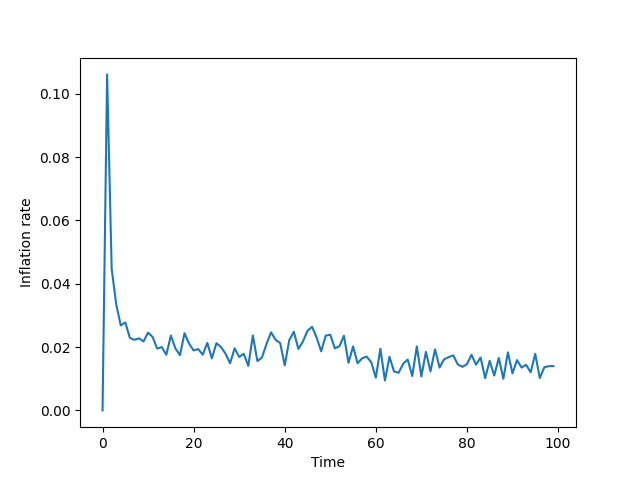
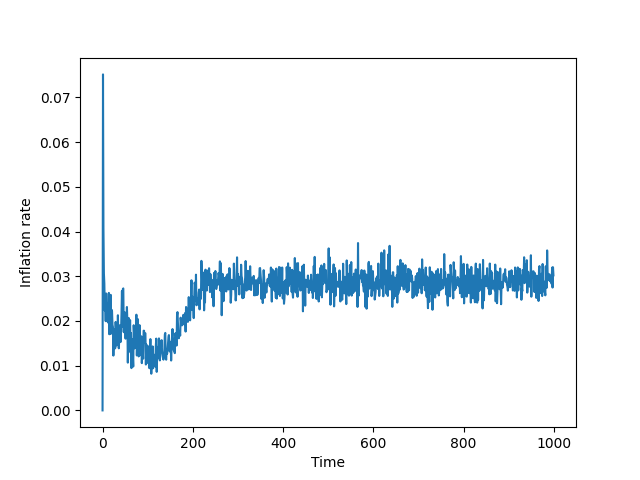
nice cycles, but u still too large

diff --git a/models/BAM_08.02.23.py b/models/BAM_08.02.23.py
@@ -39,7 +39,7 @@ class BAM_base:
         self.theta = 8 # Duration of individual contract
         self.r_bar = 0.01 # Base interest rate set by central bank (exogenous in this model)
         self.capital_requirement_coef = 0.11 # capital requirement coefficients uniform across banks 
-        self.delta = 0.05 # Dividend payments parameter (fraction of net profits firm have to pay to the shareholders)
+        self.delta = 0.35 # Dividend payments parameter (fraction of net profits firm have to pay to the shareholders)
 
         #################################################################################################
         # AGGREGATE REPORT VARIABLES
@@ -200,19 +200,19 @@ class BAM_base:
             NWa = np.mean(Y0) * 10 # initial net worth of the firms is the mean of initial HH's income times two
             NW = np.ones(self.Nf) * (NWa)  # initial net worth of each firm (all firms start with the same net worth)
             # initial_Ld = self.Nh // self.Nf # initial labour demand Ld in t = 0: ratio of HH and firms (household by firm)
-            initial_Ld = 7  
+            initial_Ld = 7
             aa = (np.mean(Y0) * 0.6) # initial minimum (required) wage is 60% of initial mean income of the HH's 
             alpha = np.random.uniform(low=0.5, high=0.5, size = self.Nf) # Productivity alpha stays constant here, since no R&D in this version
             # Delli Gatti & Grazzini 2020 set alpha to 0.5 in their model (constant)
             # alpha = 0.5
             # Sample random numbers, depending on parameter values:
-            #eta = np.random.uniform(low=0,high=self.H_eta, size = self.Nf) # sample value for the (possible) price update (growth rate) for the current firm 
-            #rho = np.random.uniform(low=0,high=self.H_rho, size = self.Nf) # sample growth rate of quantity of firm i
+            eta = np.random.uniform(low=0,high=self.H_eta, size = self.Nf) # sample value for the (possible) price update (growth rate) for the current firm 
+            rho = np.random.uniform(low=0,high=self.H_rho, size = self.Nf) # sample growth rate of quantity of firm i
             for f in range(self.Nf):
                 id_F[f] = f + 1 # set id 
                 f_data[:,f,0] = f+1 # start with 1 for id
                 Wp[f] = np.random.uniform(low = (aa), high = (aa+1)) # initial wage is random number around initial minimum required wage
-                p[f] = np.round(np.random.uniform(low = 2, high = 4), decimals=2)
+                p[f] = np.round(np.random.uniform(low = 2, high = 5), decimals=2)
 
 
             # BANKS
@@ -285,15 +285,12 @@ class BAM_base:
                 average price of last round determines how quantity or prices are adjusted in this round.
                 There is no storage or inventory, s.t. in case quantity remaining from last round (Qr > 0), it is not carried over."""
 
-                # Sample random quantity and price shocks for each firm, upper bound depending on respective parameter values (shocks change each period)
-                eta = np.random.uniform(low=0,high=self.H_eta, size = self.Nf) # sample value for the (possible) price update (growth rate) for the current firm 
-                rho = np.random.uniform(low=0,high=self.H_rho, size = self.Nf) # sample growth rate of quantity of firm i
                 for i in range(self.Nf):
                     # alpha is constant in the base version, i.e. no growth
                     if t == 0: # setRequiredLabor, i.e. labor demand in t = 0 
                         Ld[i] = initial_Ld # labor demanded is HH per firm for each firm in first period => hence each firm same demand in first period
                     elif bankrupt_flag[i] == 1: 
-                        Ld[i] = np.around(np.mean(Ld), decimals=0) # in case firm went bankrupt, initial labor demand of new firm is average labor demand of last round
+                        Ld[i] = np.around(np.mean(Ld), decimals=0) # in case firm went bankrupt, initial labor demand of new firm is average labor demand
                         #Ld[i] = initial_Ld # in case firm went bankrupt, initial labor demand of new firm is average labor demand
                     # otherwise: each firm decides output and price => s.t. it can determine labour demanded
                     else: # if t > 0, price and quantity demanded (Y^D_it = D_ie^e) need to be adjusted before setRequiredLabor
@@ -304,24 +301,24 @@ class BAM_base:
                             if Qr[i] > 0: # and firm had positive inventories, firm should reduce price to sell more and leave quantity unchanged
                                 # a)
                                 p[i] = np.around(max(p[i]*(1-eta[i]), prev_avg_p ), decimals=2) # max of previous average price or previous firm price  * 1-eta (price reduction) 
-                                Qd[i] = np.around(Qp[i]) #if Qs[i] > 0 else Qs_last_round # use average of quantity demanded last round in case Qd were non positive last round
+                                Qd[i] = np.around(Qs[i]) if Qs[i] > 0 else Qs_last_round # use average of quantity demanded last round in case Qd were non positive last round
                             else: # firm sold all products, i.e. had negative inventories: firm should increase quantity since it expects higher demand
                                 # d)
                                 p[i] = np.around(p[i],decimals=2) # price remains
-                                Qd[i] = np.around(Qp[i]*(1+rho[i]),decimals=2) #if Qs[i] > 0 else Qs_last_round
+                                Qd[i] = np.around(Qs[i]*(1+rho[i]),decimals=2) if Qs[i] > 0 else Qs_last_round
                         else: # if price difference negative, firm charged higher (individual) price than the average price 
                             if Qr[i] > 0: # if previous inventories of firm > 0 (i.e. did not sell all products): firm expects lower demand
                                 # c)
                                 p[i] = np.around(p[i],decimals=2)
-                                Qd[i] = np.around(Qp[i]*(1-rho[i]),decimals=2) #if Qs[i] > 0 else Qs_last_round
+                                Qd[i] = np.around(Qs[i]*(1-rho[i]),decimals=2) if Qs[i] > 0 else Qs_last_round
                             else: # excess demand (zero or negative inventories): price is increased
                                 # b)
                                 p[i] = np.around(max(p[i]*(1+eta[i]), prev_avg_p),decimals=2)
-                                Qd[i] = np.around(Qp[i],decimals=2) #if Qs[i] > 0 else Qs_last_round
+                                Qd[i] = np.around(Qs[i],decimals=2) if Qs[i] > 0 else Qs_last_round
                         # setRequiredLabor
                         # Ld[i] = Qd[i] // alpha[i] # here: integers => hence need at least a 1 s.t. firm is hiring
                         Ld[i] = np.around(Qd[i] / alpha[i], decimals = 2)
-                        # now only using / , firms directly hire as soon as Ld is positive  
+                        # now only using / , firms directly hire as soon as Ld is positive more 
 
                 """ 2) 
                 A fully decentralized labor market opens. Firms post vacancies with offered wages. 
@@ -339,27 +336,27 @@ class BAM_base:
                 for i in range(self.Nf):
                     """Firms updating vacancies in the following by keeping or firing workers in case contract expired:
                     i.e. rounds of employment is greater than 8"""
-                    c_f = w_emp[i] # getEmployedHousehold: slice the list with worker id's (all workers) for firm i 
-                    n = 0 # counter for the number of expired contracts of each firm i 
-                    # in case the duration of her contract is greater 8, her contract expires and she has to apply again to the firm she used to work for
-                    for j in (c_f): # j takes on HH id employed within current firm i 
-                        if d_employed[j-1] > self.theta: # if contract expired (i.e. days employed is greater than 8) 
-                            w_emp[i].remove(j) # removeHousehold  -> delete the current HH id in the current firm array 
-                            prev_firm_id[j-1] = i # updatePrevEmployer -> since HH is fired from firm i 
-                            is_employed[j-1] = False # updateEmploymentStatus
-                            firm_id[j-1] = 0 # setEmployedFirmId -> 0 now, because no employed firm
-                            w[j-1] = 0 # setWage -> no wage now
-                            d_employed[j-1] = 0 # 0 days employed from now on
-                            n = n + 1 # add expired contract
-                            expired[j-1] = True # set entry to true when contract expired
-                    Lhat[i] = Lhat[i] + n # updateNumberOfExpiredContracts: add number of fired workers n and update fired workers (in this round) 
-                    L[i] = len(w_emp[i]) # updateTotalEmployees: workforce or length of list with workers id, i.e. the number of wokers signed at firm i
-                    """calcVacancies of firm i"""
-                    # vac[i] = int((Ld[i] - L[i] + Lhat[i])) # labour demanded (determined before) minus current labour employed + Labor whose contracts are expiring
-                    vac[i] = max(np.around((Ld[i] - L[i] + Lhat[i]), decimals = 2) ,0) # vacancie rate cannot be negative
-                    # vac[i] = np.around((Ld[i] - L[i] + Lhat[i]), decimals = 2) 
-                    if vac[i] > 0: 
-                        f_empl.append(i+1) # if firm i has vacancies => then save firm_id (i) to list 
+                    if L[i] >= 0: # always activated 
+                        c_f = w_emp[i] # getEmployedHousehold: slice the list with worker id's (all workers) for firm i 
+                        n = 0 # counter for the number of expired contracts of each firm i 
+                        # in case the duration of her contract is greater 8, her contract expires and she has to apply again to the firm she used to work for
+                        for j in (c_f): # j takes on HH id employed within current firm i 
+                            if d_employed[j-1] > self.theta: # if contract expired (i.e. days employed is greater than 8) 
+                                w_emp[i].remove(j) # removeHousehold  -> delete the current HH id in the current firm array 
+                                prev_firm_id[j-1] = i # updatePrevEmployer -> since HH is fired from firm i 
+                                is_employed[j-1] = False # updateEmploymentStatus
+                                firm_id[j-1] = 0 # setEmployedFirmId -> 0 now, because no employed firm
+                                w[j-1] = 0 # setWage -> no wage now
+                                d_employed[j-1] = 0 # 0 days employed from now on
+                                n = n + 1 # add expired contract
+                                expired[j-1] = True # set entry to true when contract expired
+                        Lhat[i] = Lhat[i] + n # updateNumberOfExpiredContracts: add number of fired workers n and update fired workers (in this round) 
+                        L[i] = len(w_emp[i]) # updateTotalEmployees: workforce or length of list with workers id, i.e. the number of wokers signed at firm i
+                        """calcVacancies of firm i"""
+                        # vac[i] = int((Ld[i] - L[i] + Lhat[i])) # labour demanded (determined before) minus current labour employed + Labor whose contracts are expiring
+                        vac[i] = np.max(np.around((Ld[i] - L[i] + Lhat[i]), decimals = 2) ,0) # vacancie rate cannot be negative
+                        if vac[i] > 0: 
+                            f_empl.append(i+1) # if firm i has vacancies => then save firm_id (i) to list 
                     """setWage"""
                     xi = np.random.uniform(low=0,high=self.h_xi) # compute xi (uniformly distributed random wage shock) for firm i
                     # the minimum wage: w_min is periodically revised upward every four time steps (quarters) in order to catch up with inflation
@@ -619,10 +616,10 @@ class BAM_base:
                 """If internal and external finances are not enough to pay for wage bills of HH: some random HH are fired
                 before production starts"""
                 # A: updateProductionDecisions
-                hh_layed_off = [] # initialize list to store HH id's that will be fired in the following
+                hh_layed_off = [] # initialize list to store HH id's that will be fired in the follwing
                 print("Firms updating hiring decision.....")
                 print("")
-                L_sum = sum(L)
+
                 for f in range(self.Nf): # go through through all firms
                     if B[f] > 0:# if 
                         unsatisfied_cr =  B[f] - sum(Bi[f]) # amount of credit needed minus total amount (sum) of credit received by bank(s) 
@@ -650,10 +647,6 @@ class BAM_base:
                     prev_firm_id[h-1] = firm_id[h-1] # updatePrevEmployer: save firm id which fired HH and is now firm HH worked previously
                     firm_id[h-1] = 0   # setEmployedFirmId: HH not employed anymore, therefore id is 0
                     is_employed[h-1] = False # set employment status to false
-                
-                if L_sum != sum(L):
-                    input("Press Enter to continue...")
-                
 
                 """4)
                 Production takes one unit of time regardless of the scale of prod/firms. 
@@ -993,7 +986,7 @@ class BAM_base:
                             #print("positive Profits of firm %s not high enough to cover wage payments"%f, "Net worth now %s"%NW[f])
 
                     # calcVacRate
-                    # vac[f] = vac[f] - L[f] # update vacancies (subtract current amount of labour employed at firm f)
+                    vac[f] = vac[f] - L[f] # update vacancies (subtract current amount of labour employed at firm f)
                 
                 # 2) HH's
                 """HH update their days of employment or unemplyoment respectively 
@@ -1128,10 +1121,6 @@ class BAM_base:
 
                 """Vacancy"""
                 self.vac_rate[t,mc] = np.round(np.sum(vac) / np.sum(L), decimals = 2) # vacancie rate is number of job openings (i.e. vacancies) relative to the labor force (labor employed currently)
-                
-                # wann schmiert das modell ab, i.e. u = 1
-                if self.unemp_rate[t,mc] == 1:
-                    input("Press Enter to continue...")
 
                 """8) 
                 Firms with positive net worth/equity survive, but otherwise firms/banks with negative net worth go bankrupt and are replaced by.
@@ -1232,7 +1221,7 @@ class BAM_base:
                 credit_appl = [[] for _ in range(self.Nf)]
                 Lhat = np.zeros(self.Nf)
                 loan_paid = np.zeros(self.Nf)
-                # Ld = np.zeros(self.Nf)
+                Ld = np.zeros(self.Nf)
                 banks = [[] for _ in range(self.Nf)]
                 Bi = [[] for _ in range(self.Nf)]
                 r = [[] for _ in range(self.Nf)]

diff --git a/main.py b/main.py
@@ -16,7 +16,7 @@ print(toymodel_simulation)
 #################################################################################################
 
 """ intial Parameters to be estimated later"""
-parameters = {'Nh':500, 'Nf':100, 'Nb':10, 'T':100, 
+parameters = {'Nh':500, 'Nf':100, 'Nb':10, 'T':1000, 
               'Z':2, 'M':4, 'H':2, 'H_eta': 0.1, 'H_rho':0.1, 'H_phi':0.01, 'h_xi':0.05,
               'c_P':1, 'c_R':0.5}
 # 'Z':2 im Buch -> bei ihm 3 !!!
